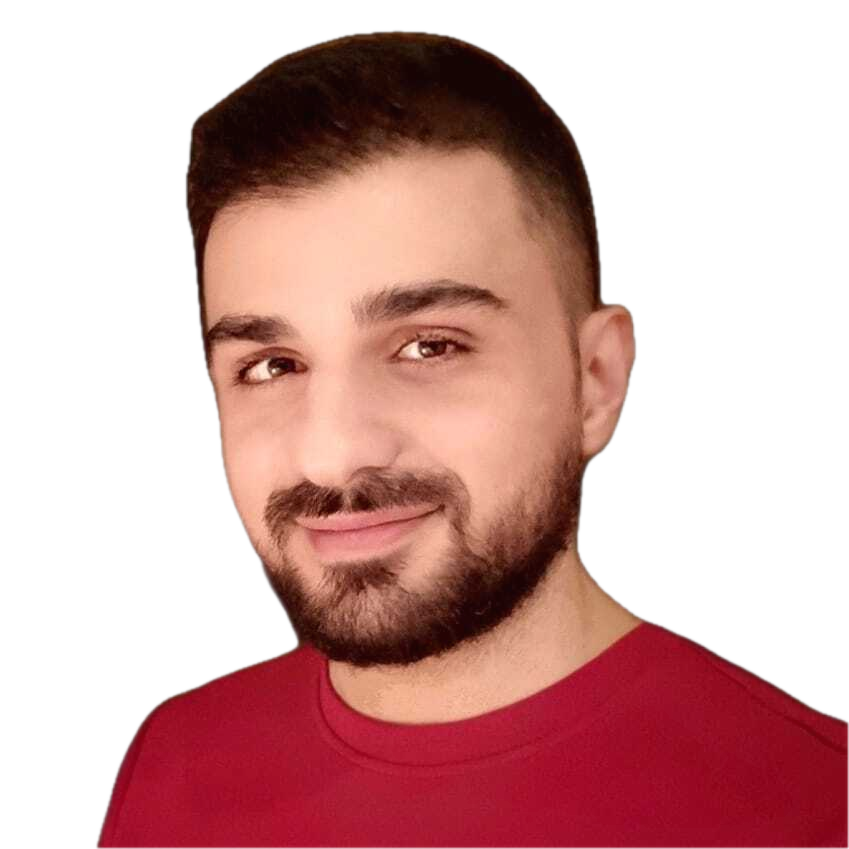
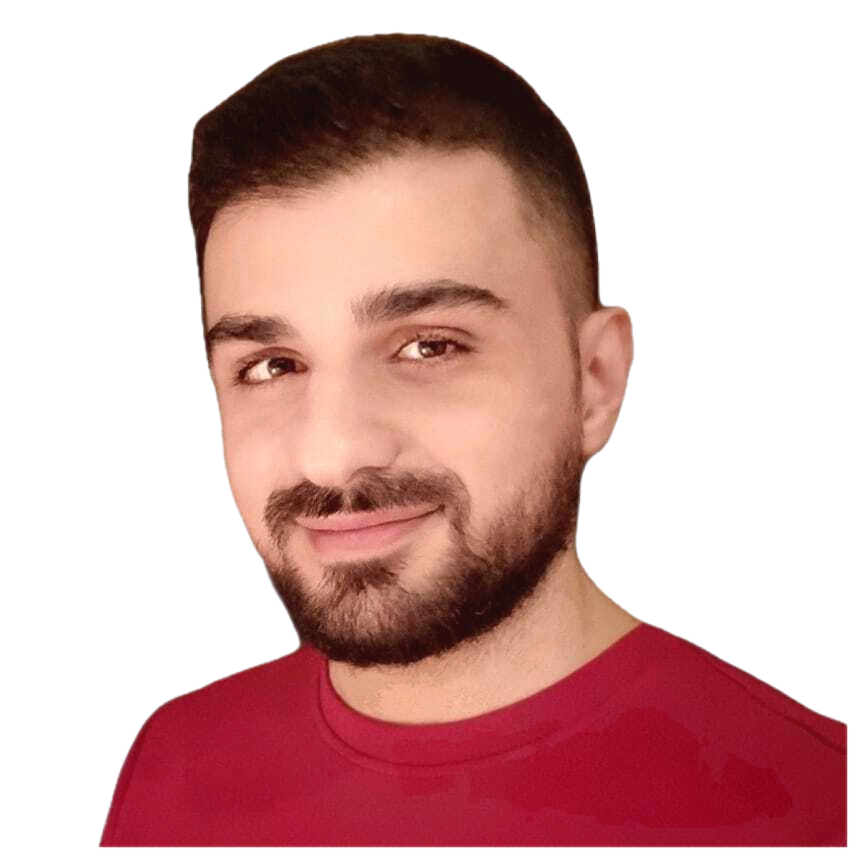
make fixes to the resume page and minor fixes to the homepage

diff --git a/resume.html b/resume.html
@@ -13,7 +13,7 @@
         <link rel="preconnect" href="https://fonts.gstatic.com" crossorigin />
         <link href="https://fonts.googleapis.com/css2?family=Plus+Jakarta+Sans:wght@100;200;300;400;500;600;700;800;900&amp;display=swap" rel="stylesheet" />
         <!-- Bootstrap icons-->
-        <link href="https://cdn.jsdelivr.net/npm/bootstrap-icons@1.8.1/font/bootstrap-icons.css" rel="stylesheet" />
+        <link rel="stylesheet" href="https://cdn.jsdelivr.net/npm/bootstrap-icons@1.11.3/font/bootstrap-icons.min.css">        
         <!-- Core theme CSS (includes Bootstrap)-->
         <link href="css/styles.css" rel="stylesheet" />
     </head>
@@ -112,14 +112,6 @@
                                                 </div>
                                             </div>
                                         </div>
-                                        <div class="col-lg-8"><div>Lorem ipsum dolor sit amet consectetur adipisicing elit. Delectus laudantium, voluptatem quis repellendus eaque sit animi illo ipsam amet officiis corporis sed aliquam non voluptate corrupti excepturi maxime porro fuga.</div></div>
-                                    </div>
-                                </div>
-                            </div>
-                            <!-- Education Card 2-->
-                            <div class="card shadow border-0 rounded-4 mb-5">
-                                <div class="card-body p-5">
-                                    <div class="row align-items-center gx-5">
                                         <div class="col text-center text-lg-start mb-4 mb-lg-0">
                                             <div class="bg-light p-4 rounded-4">
                                                 <div class="text-secondary fw-bolder mb-2">2018 - 2021</div>
@@ -132,7 +124,6 @@
                                                 </div>
                                             </div>
                                         </div>
-                                        <div class="col-lg-8"><div>Lorem ipsum dolor sit amet consectetur adipisicing elit. Delectus laudantium, voluptatem quis repellendus eaque sit animi illo ipsam amet officiis corporis sed aliquam non voluptate corrupti excepturi maxime porro fuga.</div></div>
                                     </div>
                                 </div>
                             </div>
@@ -147,24 +138,24 @@
                                     <!-- Professional skills list-->
                                     <div class="mb-5">
                                         <div class="d-flex align-items-center mb-4">
-                                            <div class="feature bg-primary bg-gradient-primary-to-secondary text-white rounded-3 me-3"><i class="bi bi-tools"></i></div>
+                                            <div class="feature bg-primary bg-gradient-primary-to-secondary text-white rounded-3 me-3"><i class="bi bi-pen-fill"></i></div>
                                             <h3 class="fw-bolder mb-0"><span class="text-gradient d-inline">Professional Skills</span></h3>
                                         </div>
                                         <div class="row row-cols-1 row-cols-md-3 mb-4">
-                                            <div class="col mb-4 mb-md-0"><div class="d-flex align-items-center bg-light rounded-4 p-3 h-100">SEO/SEM Marketing</div></div>
-                                            <div class="col mb-4 mb-md-0"><div class="d-flex align-items-center bg-light rounded-4 p-3 h-100">Statistical Analysis</div></div>
-                                            <div class="col"><div class="d-flex align-items-center bg-light rounded-4 p-3 h-100">Web Development</div></div>
+                                            <div class="col mb-4 mb-md-0"><div class="d-flex align-items-center bg-light rounded-4 p-3 h-100">Web Development</div></div>
+                                            <div class="col mb-4 mb-md-0"><div class="d-flex align-items-center bg-light rounded-4 p-3 h-100">Front-End Development</div></div>
+                                            <div class="col mb-md-0"><div class="d-flex align-items-center bg-light rounded-4 p-3 h-100">Back-End Development</div></div>
                                         </div>
                                         <div class="row row-cols-1 row-cols-md-3">
+                                            <div class="col mb-4 mb-md-0"><div class="d-flex align-items-center bg-light rounded-4 p-3 h-100">SEO/SEM Marketing</div></div>
                                             <div class="col mb-4 mb-md-0"><div class="d-flex align-items-center bg-light rounded-4 p-3 h-100">Network Security</div></div>
-                                            <div class="col mb-4 mb-md-0"><div class="d-flex align-items-center bg-light rounded-4 p-3 h-100">Adobe Software Suite</div></div>
                                             <div class="col"><div class="d-flex align-items-center bg-light rounded-4 p-3 h-100">User Interface Design</div></div>
                                         </div>
                                     </div>
                                     <!-- Platform skills list-->
                                     <div class="mb-5">
                                         <div class="d-flex align-items-center mb-4">
-                                            <div class="feature bg-primary bg-gradient-primary-to-secondary text-white rounded-3 me-3"><i class="bi bi-tools"></i></div>
+                                            <div class="feature bg-primary bg-gradient-primary-to-secondary text-white rounded-3 me-3"><i class="bi bi-layout-text-window-reverse"></i></div>
                                             <h3 class="fw-bolder mb-0"><span class="text-gradient d-inline">Platform Skills</span></h3>
                                         </div>
                                         <div class="row row-cols-1 row-cols-md-2">
@@ -201,15 +192,15 @@
                                             <div class="col"><div class="d-flex align-items-center bg-light rounded-4 p-3 h-100">C#</div></div>
                                         </div>
                                         <div class="row row-cols-1 row-cols-md-3">
-                                            <div class="col"><div class="d-flex align-items-center bg-light rounded-4 p-3 h-100">JavaScript</div></div>
+                                            <div class="col mb-4 mb-md-0"><div class="d-flex align-items-center bg-light rounded-4 p-3 h-100">JavaScript</div></div>
                                             <div class="col mb-4 mb-md-0"><div class="d-flex align-items-center bg-light rounded-4 p-3 h-100">HTML</div></div>
                                             <div class="col mb-4 mb-md-0"><div class="d-flex align-items-center bg-light rounded-4 p-3 h-100">CSS</div></div>
                                         </div>
                                     </div>
-                                    <!-- Languages list-->
+                                    <!-- Data list-->
                                     <div class="mb-0">
                                         <div class="d-flex align-items-center mb-4">
-                                            <div class="feature bg-primary bg-gradient-primary-to-secondary text-white rounded-3 me-3"><i class="bi bi-code-slash"></i></div>
+                                            <div class="feature bg-primary bg-gradient-primary-to-secondary text-white rounded-3 me-3"><i class="bi bi-database-fill"></i></div>
                                             <h3 class="fw-bolder mb-0"><span class="text-gradient d-inline">Data Technologies</span></h3>
                                         </div>
                                         <div class="row row-cols-1 row-cols-md-4">

diff --git a/index.html b/index.html
@@ -64,7 +64,7 @@
                                 <div class="profile bg-gradient-primary-to-secondary">
                                     <!-- TIP: For best results, use a photo with a transparent background like the demo example below-->
                                     <!-- Watch a tutorial on how to do this on YouTube (link)-->
-                                    <img class="profile-img" src="assets/profile.png" alt="..." style="max-height:109%;border-radius:33%;"/>
+                                    <img class="profile-img" src="assets/profile.png" alt="..." style="max-height:100%;border-radius:13%;"/>
                                     <div class="dots-1">
                                         <!-- SVG Dots-->
                                         <svg version="1.1" xmlns="http://www.w3.org/2000/svg" xmlns:xlink="http://www.w3.org/1999/xlink" x="0px" y="0px" viewBox="0 0 191.6 1215.4" style="enable-background: new 0 0 191.6 1215.4" xml:space="preserve">
